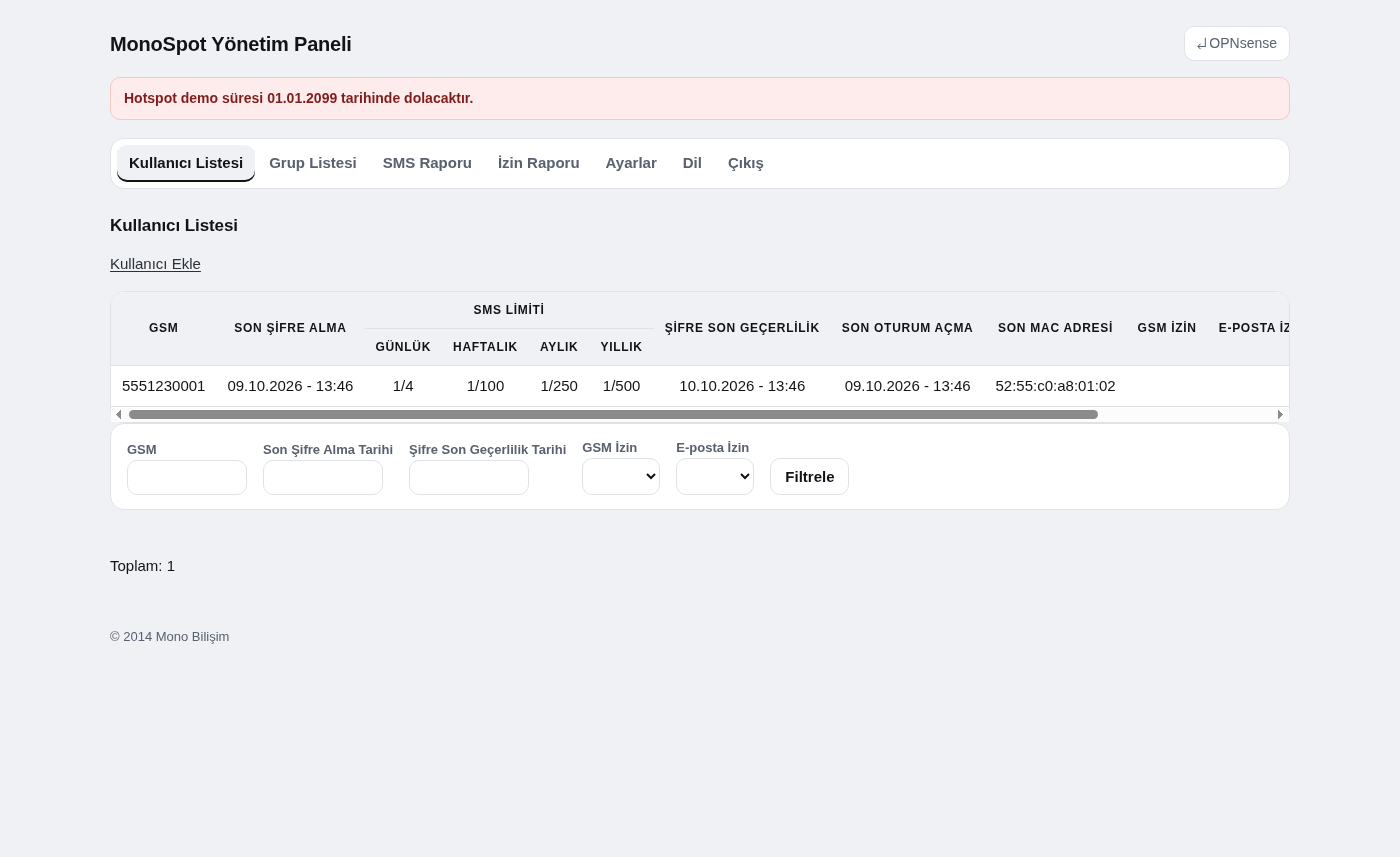
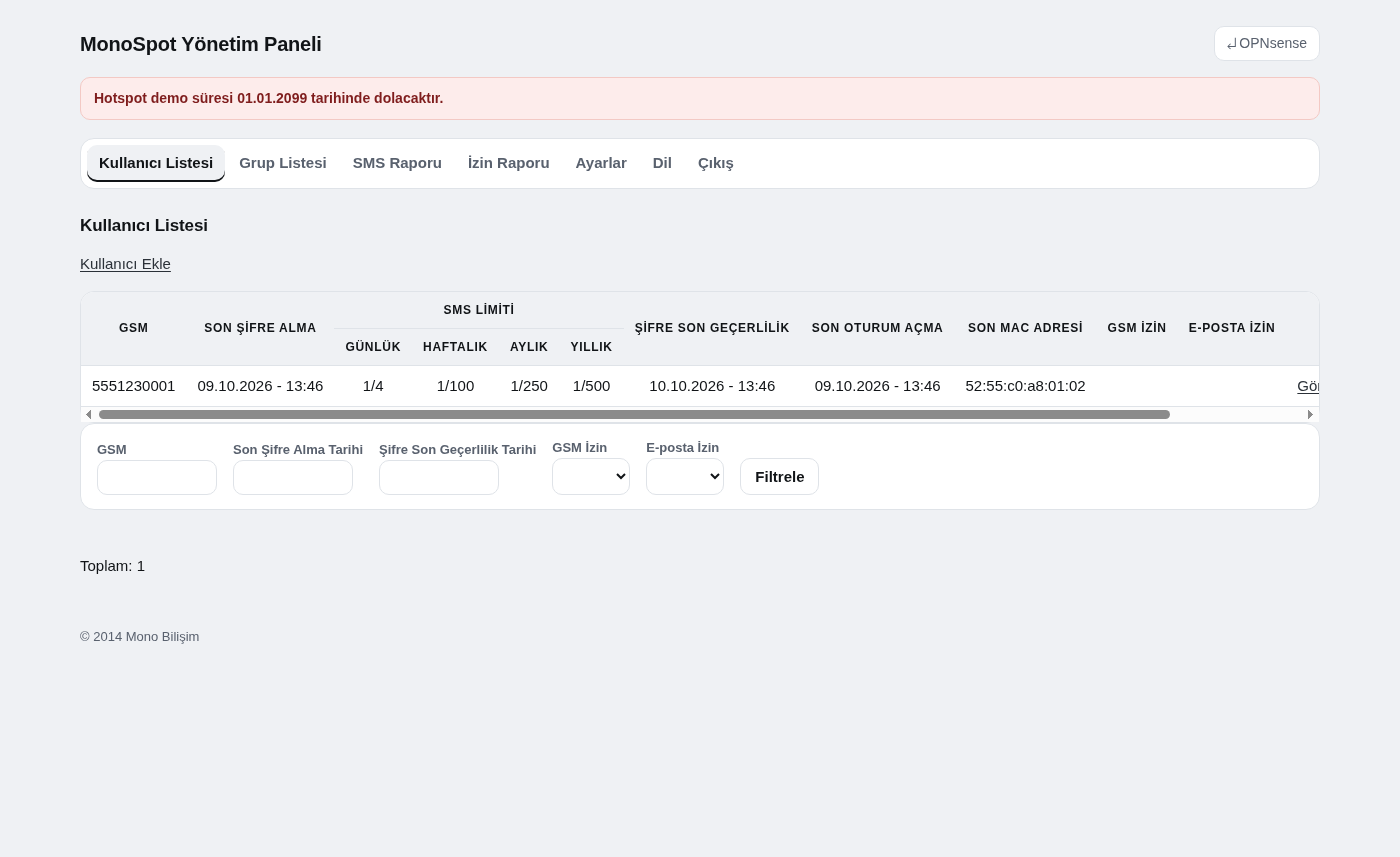
Spread the portal wide and make the method tabs equal

diff --git a/net/monospot/src/opnsense/scripts/monospot/app/assets/css/captiveportal-style.css b/net/monospot/src/opnsense/scripts/monospot/app/assets/css/captiveportal-style.css
@@ -199,17 +199,23 @@ button {
  * yan yana durur, formlar altında tam genişlik. Izgara esnektir: 2'den fazla
  * yöntemde sekmeler sığdığı kadar kolona yayılır.
  */
-#form-selection {
-	display: grid;
-	grid-template-columns: repeat(auto-fit, minmax(8rem, 1fr));
-	gap: 14px 8px;
-	margin: 0;
+/*
+ * Yöntem sekmeleri: gerçek bir sekme şeridi. Dört düğme eşit genişlikte
+ * bölüşür, şeridin taban çizgisi tek hairline'dır ve aktif sekmenin 2px
+ * alt çizgisi o çizginin üstüne oturur. Formlar şeridin altında akar.
+ */
+.tabs {
+	display: flex;
+	border-bottom: 1px solid var(--rule);
+	margin-bottom: 18px;
 }
 
-#form-selection > button {
-	grid-row: 1;
-	min-height: 38px;
-	padding: 6px 2px;
+.tabs > button {
+	flex: 1 1 0;
+	min-width: 0;
+	min-height: 42px;
+	margin-bottom: -1px;
+	padding: 10px 0;
 	border: 0;
 	border-bottom: 2px solid transparent;
 	border-radius: 0;
@@ -223,18 +229,17 @@ button {
 	transition: color 0.16s var(--ease), border-color 0.16s var(--ease);
 }
 
-#form-selection > button:hover {
+.tabs > button:hover {
 	color: var(--ink);
 }
 
-#form-selection > button.active {
+.tabs > button.active {
 	color: var(--ink);
-	border-bottom-color: var(--brand);
+	border-bottom-color: var(--ink);
 }
 
-#form-selection > :not(button) {
-	grid-row: 2;
-	grid-column: 1 / -1;
+#form-selection {
+	display: block;
 }
 
 /* ---------- mesajlar ----------------------------------------------------- */
@@ -484,6 +489,62 @@ input.submit.busy {
 
 .popup_cont {
 	width: min(92%, 620px);
+}
+
+/* ---------- geniş ekran: iki kanatlı kompozisyon ------------------------ */
+
+/*
+ * Telefon birinci sınıf; ama masaüstünde her şey 640px'lik bir şeride
+ * sıkışmasın. 980px üstünde marka bloğu sola, eylem kartı sağa geçer;
+ * boşluk "yayılmak" yerine iki kolon arasında kompoze edilir.
+ */
+@media all and (min-width: 980px) {
+	body {
+		display: grid;
+		grid-template-columns: minmax(0, 1fr) minmax(340px, 480px);
+		gap: 0 72px;
+		align-items: center;
+		max-width: 1120px;
+		min-height: 100vh;
+		margin: 0 auto;
+		padding: 48px 40px 64px;
+	}
+
+	#brand {
+		flex-direction: column;
+		align-items: flex-start;
+		gap: 10px;
+		width: 100%;
+		padding: 0;
+	}
+
+	#logo img {
+		height: 40px;
+		max-width: 220px;
+	}
+
+	#title {
+		font-size: 1.625rem;
+		font-weight: 650;
+		letter-spacing: -0.02em;
+		line-height: 1.15;
+	}
+
+	#wifi-logo img {
+		height: 20px;
+	}
+
+	#container {
+		width: 100%;
+		margin: 0;
+	}
+}
+
+@media all and (min-width: 1440px) {
+	body {
+		max-width: 1200px;
+		gap: 0 96px;
+	}
 }
 
 @media all and (max-width: 560px) {

diff --git a/net/monospot/src/opnsense/scripts/monospot/app/assets/css/style.css b/net/monospot/src/opnsense/scripts/monospot/app/assets/css/style.css
@@ -62,15 +62,41 @@ button {
 	caret-color: var(--brand);
 }
 
-:where(a, button, input, select, textarea, [tabindex]):focus-visible {
+/*
+ * Odak halkası. `:where()` sıfır özgüllük verir ve OPNsense GUI'sinin kendi
+ * `a:focus` kuralına kaybeder; bu yüzden gerçek seçiciler + #container kapsamı.
+ */
+#container a:focus-visible,
+#container button:focus-visible,
+#container input:focus-visible,
+#container select:focus-visible,
+#container textarea:focus-visible,
+#container [tabindex]:focus-visible {
 	outline: 2px solid var(--focus);
 	outline-offset: 2px;
-	border-radius: var(--r-xs);
+}
+#container a:focus:not(:focus-visible) {
+	outline: none;
 }
 
 #container {
-	max-width: 1180px;
+	max-width: 1240px;
 	margin: 0 auto;
+}
+
+/* tek kolon alan listeleri çok geniş ekranda kaybolmasın */
+.settings-pane {
+	max-width: 880px;
+}
+
+@media (min-width: 1440px) {
+	body {
+		padding: 32px 40px 56px;
+	}
+
+	#container {
+		max-width: 1400px;
+	}
 }
 
 /* ---------- başlık ve navigasyon ---------------------------------------- */
@@ -127,10 +153,10 @@ h3 {
 .notice {
 	margin: 16px 0 0;
 	padding: 10px 13px;
-	border: 1px solid var(--err-rule);
+	border: 1px solid var(--rule-strong);
 	border-radius: var(--r-sm);
-	background: var(--err-bg);
-	color: var(--err);
+	background: var(--shell);
+	color: var(--ink);
 	font-size: 0.875rem;
 	font-weight: 600;
 }

diff --git a/net/monospot/src/opnsense/scripts/monospot/app/assets/js/captiveportal.js b/net/monospot/src/opnsense/scripts/monospot/app/assets/js/captiveportal.js
@@ -20,8 +20,8 @@ $(document).ready(function() {
 
 	$(".form.active").slideDown();
 
-	$("#form-selection > button").click(function() {
-		$("#form-selection > button.active").removeClass("active");
+	$("#form-selection .tabs > button").click(function() {
+		$("#form-selection .tabs > button.active").removeClass("active");
 		$(this).addClass("active");
 		var currentId = $(this).attr("id");
 		// adım göstergesi de yöntemle birlikte güncellenir

diff --git a/net/monospot/src/opnsense/scripts/monospot/app/views/layouts/captiveportal.html.php b/net/monospot/src/opnsense/scripts/monospot/app/views/layouts/captiveportal.html.php
@@ -78,9 +78,23 @@ $active_form = !empty($form) ? $form : (isset($settings['authentication']['sms']
     <? endif; ?>
 
     <nav id="form-selection" aria-label="<?= t('sms_login') ?>">
+        <? $id_number_active = $active_form == 'id_number_login'
+            || (!isset($settings['authentication']['sms']) && isset($settings['id_number']['open_extended'])); ?>
+
+        <div class="tabs">
+<? if (isset($settings['authentication']['sms'])): ?>
+        <button id="sms_register"<?= $active_form == 'sms_register' ? ' class="active"' : '' ?>><?= t('sms_register') ?></button>
+        <button id="sms_login"<?= $active_form == 'sms_login' ? ' class="active"' : '' ?>><?= t('sms_login') ?></button>
+<? endif; ?>
+<? if (isset($settings['authentication']['id_number']) && $lang == 'tr'): ?>
+        <button id="id_number_login"<?= $id_number_active ? ' class="active"' : '' ?>><?= t('id_number_login') ?></button>
+<? endif; ?>
+<? if (isset($settings['authentication']['manual_user'])): ?>
+        <button id="manual_user_login"<?= $form == 'manual_user_login' ? ' class="active"' : '' ?>><?= t('manual_user_login') ?></button>
+<? endif; ?>
+        </div>
 
     <? if (isset($settings['authentication']['sms'])): ?>
-        <button id="sms_register"<?= $active_form == 'sms_register' ? ' class="active"' : '' ?>><?= t('sms_register') ?></button>
         <div class="form<?= $active_form == 'sms_register' ? ' active' : '' ?>" id="form_sms_register">
             <div class="content">
                 <form method="post" onSubmit="return validateForm(this)" action="">
@@ -129,7 +143,6 @@ $active_form = !empty($form) ? $form : (isset($settings['authentication']['sms']
             </div>
         </div>
 
-        <button id="sms_login"<?= $active_form == 'sms_login' ? ' class="active"' : '' ?>><?= t('sms_login') ?></button>
         <div class="form<?= $active_form == 'sms_login' ? ' active' : '' ?>" id="form_sms_login">
             <div class="content">
                 <form method="post" onSubmit="return validateForm(this)" action="">
@@ -165,9 +178,6 @@ $active_form = !empty($form) ? $form : (isset($settings['authentication']['sms']
     <? endif; ?>
 
     <? if (isset($settings['authentication']['id_number']) && $lang == 'tr'): ?>
-        <? $id_number_active = $active_form == 'id_number_login'
-            || (!isset($settings['authentication']['sms']) && isset($settings['id_number']['open_extended'])); ?>
-        <button id="id_number_login"<?= $id_number_active ? ' class="active"' : '' ?>><?= t('id_number_login') ?></button>
         <div class="form<?= $id_number_active ? ' active' : '' ?>"
              id="form_id_number_login">
             <div class="content">
@@ -208,7 +218,6 @@ $active_form = !empty($form) ? $form : (isset($settings['authentication']['sms']
     <? endif; ?>
 
     <? if (isset($settings['authentication']['manual_user'])): ?>
-        <button id="manual_user_login"<?= $form == 'manual_user_login' ? ' class="active"' : '' ?>><?= t('manual_user_login') ?></button>
         <div class="form<?= $form == 'manual_user_login' ? ' active' : '' ?>" id="form_manual_user_login">
             <div class="content">
                 <form method="post" onSubmit="return validateForm(this)" action="">
@@ -238,9 +247,9 @@ $active_form = !empty($form) ? $form : (isset($settings['authentication']['sms']
         </div>
     <? endif; ?>
 
-    <? include dirname(__FILE__) . '/captiveportal_custom.html.php'; ?>
-
     </nav>
+
+    <? include dirname(__FILE__) . '/captiveportal_custom.html.php'; ?>
 
     <div id="lang">
         <form method="post" action="">

diff --git a/net/monospot/src/opnsense/scripts/monospot/app/views/settings.html.php b/net/monospot/src/opnsense/scripts/monospot/app/views/settings.html.php
@@ -8,6 +8,8 @@
     </ul>
 <? endif; ?>
 
-<form action="<?=url_for('settings')?>" method="POST" enctype="multipart/form-data">
-    <? include 'settings_form_inner.html.php'; ?>
-</form>
+<div class="settings-pane">
+    <form action="<?=url_for('settings')?>" method="POST" enctype="multipart/form-data">
+        <? include 'settings_form_inner.html.php'; ?>
+    </form>
+</div>
